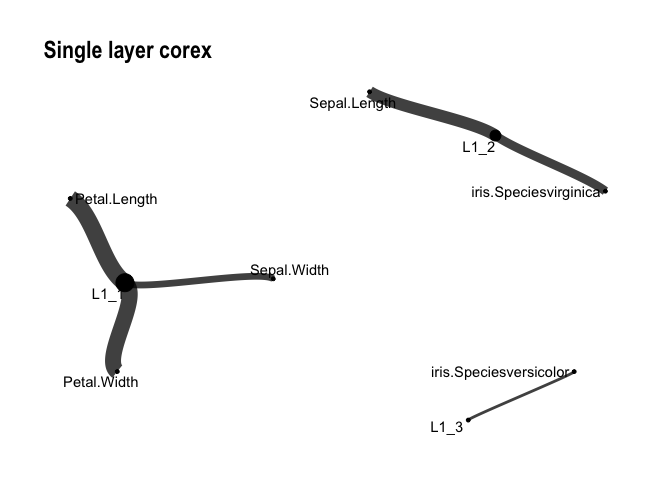
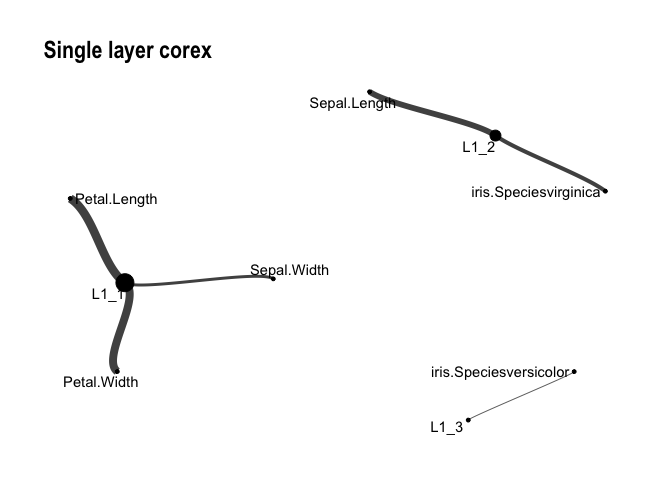
readme, description and other updates

diff --git a/README.md b/README.md
@@ -7,11 +7,13 @@
 
 [![R build
 status](https://github.com/jpkrooney/rcorex/workflows/R-CMD-check/badge.svg)](https://github.com/jpkrooney/rcorex/actions)
+[![Codecov test
+coverage](https://codecov.io/gh/jpkrooney/rcorex/branch/master/graph/badge.svg)](https://codecov.io/gh/jpkrooney/rcorex?branch=master)
 <!-- badges: end -->
 
-Total correlation explanation is an unsupervised learning algorithm for
-discovering structure in high dimensional data. Total correlation
-explanation has been implemented in Python as CorEx and related modules
+Total correlation explanation is method for discovering latent structure
+in high dimensional data. Total correlation explanation has been
+implemented in Python as CorEx and related modules
 (<https://github.com/gregversteeg/CorEx>). The initial aim of rcorex is
 to implement Total Correlation Explanation in the R statistical
 software, specifically to replicate the functionality of the Bio CorEx
@@ -119,6 +121,7 @@ g1 <- make_corex_tidygraph( layer1 )
 ggraph(g1, layout = "fr") +
   geom_node_point(aes(size = node_size), show.legend = FALSE) +
   geom_edge_hive(aes(width = thickness), alpha = 0.75, show.legend = FALSE) +
+  scale_edge_width(range = c(0.3, 3)) +
   geom_node_text(aes(label = names), repel = TRUE) +
   ggtitle("Single layer corex") +
   theme_graph()
@@ -153,6 +156,7 @@ g_hier <- make_corex_tidygraph( list(layer1, layer2))
 ggraph(g_hier, layout = "fr") +
   geom_node_point(aes(size = node_size), show.legend = FALSE) +
   geom_edge_hive(aes(width = thickness), alpha = 0.75, show.legend = FALSE) +
+  scale_edge_width(range = c(0.3, 3)) +
   geom_node_text(aes(label = names), repel = TRUE) +
   ggtitle("Hierarchical corex") +
   theme_graph()
